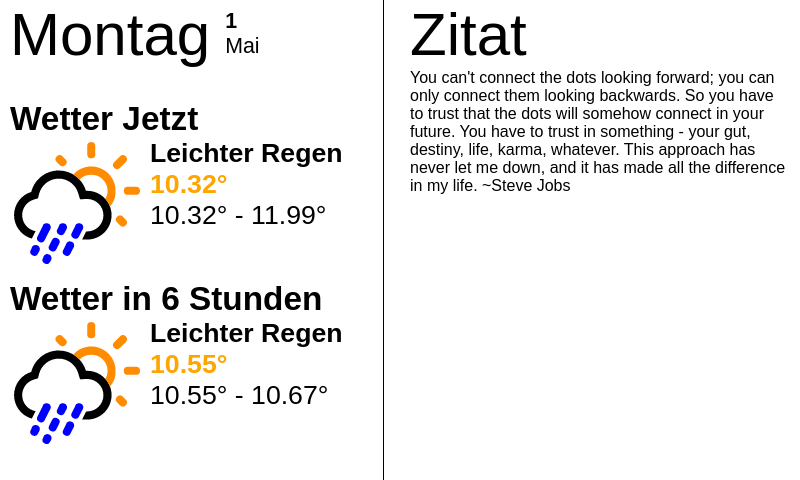
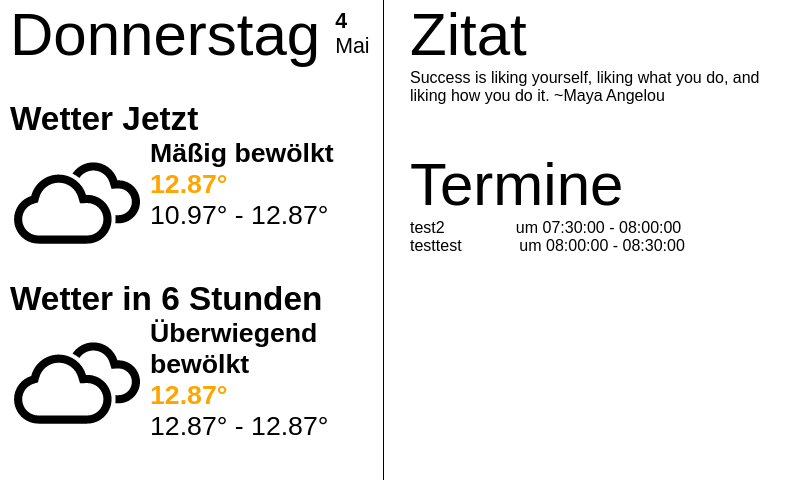
implemented test calendar widget

diff --git a/dashboard.html b/dashboard.html
@@ -7,10 +7,10 @@
     </head>
     <body>
         <div id="today-header">
-            <span id="today-date-weekday"></i>Montag</span>
+            <span id="today-date-weekday"></i>Donnerstag</span>
             <span id="today-date-daymonth">
               <div id="today-date-day">
-                1
+                4
               </div>
               Mai
             </span>
@@ -18,28 +18,32 @@
         <div id="weather_now">
           <span id="weather_title">Wetter Jetzt<br/></span>  
           <div id="weather_text">
-            <span id="weather-description">Leichter Regen<br/></span>
-            <span id="weather-temp">10.32°<br/></span>
-            <span id="weather-tempminmax">10.32° - 11.99°<br/></span>
+            <span id="weather-description">Mäßig bewölkt<br/></span>
+            <span id="weather-temp">12.87°<br/></span>
+            <span id="weather-tempminmax">10.97° - 12.87°<br/></span>
           </div>
-          <img id="today-icon" src=icons/10d.svg alt="10d"><br/>
+          <img id="today-icon" src=icons/03n.svg alt="03n"><br/>
         </div>
         <div id="weather_forecast">
           <span id="weather_title">Wetter in 6 Stunden<br/></span>  
           <div id="weather_text">
-            <span id="weather-description">Leichter Regen<br/></span>
-            <span id="weather-temp">10.55°<br/></span>
-            <span id="weather-tempminmax">10.55° - 10.67°<br/></span>
+            <span id="weather-description">Überwiegend<br/>bewölkt<br/></span>
+            <span id="weather-temp">12.87°<br/></span>
+            <span id="weather-tempminmax">12.87° - 12.87°<br/></span>
           </div>
-          <img id="today-icon" src=icons/10d.svg alt="10d"><br/>
+          <img id="today-icon" src=icons/03n.svg alt="03n"><br/>
         </div>
 
         <div class="vl"></div>
 
         <div id="quote">
           <span id="today-date-weekday"></i>Zitat<br/></span>
-          <span id="quote-text">You can't connect the dots looking forward; you can only connect them looking backwards. So you have to trust that the dots will somehow connect in your future. You have to trust in something - your gut, destiny, life, karma, whatever. This approach has never let me down, and it has made all the difference in my life. ~Steve Jobs
+          <span id="quote-text">Success is liking yourself, liking what you do, and liking how you do it. ~Maya Angelou
 <br/></span> 
+        </div>
+        <div id="calendar">
+          <span id="today-date-weekday"></i>Termine<br/></span>
+          <span id="quote-text">test2&nbsp;&nbsp;&nbsp;&nbsp;&nbsp;&nbsp;&nbsp;&nbsp;&nbsp;&nbsp;&nbsp;&nbsp;&nbsp;&nbsp;&nbsp; um  07:30:00 - 08:00:00<br/>testtest&nbsp;&nbsp;&nbsp;&nbsp;&nbsp;&nbsp;&nbsp;&nbsp;&nbsp;&nbsp;&nbsp;&nbsp; um  08:00:00 - 08:30:00<br/></span>
         </div>
     </body>
 </html>

diff --git a/dashboard_template.html b/dashboard_template.html
@@ -40,5 +40,9 @@
           <span id="today-date-weekday"></i>Zitat<br/></span>
           <span id="quote-text">QUOTE<br/></span> 
         </div>
+        <div id="calendar">
+          <span id="today-date-weekday"></i>Termine<br/></span>
+          <span id="quote-text">CALENDAR_EVENTS<br/></span>
+        </div>
     </body>
 </html>

diff --git a/styles.css b/styles.css
@@ -74,4 +74,9 @@
         margin-left: -1px;
         top: 0;
         }
-
+        #calendar {
+                position: absolute;
+                top: 150px;
+                left: 410px;
+                width: 380px;
+        }

diff --git a/get_calendar.py b/get_calendar.py
@@ -1,0 +1,50 @@
+import datetime
+from O365 import Account, MSGraphProtocol
+import re
+#import config.py with api keys
+import config
+
+calendar_events = ""
+
+
+credentials = (config.CLIENT_ID, config.SECRET_ID)
+
+protocol = MSGraphProtocol() 
+scopes = ['Calendars.Read.Shared']
+account = Account(credentials, protocol=protocol)
+
+# Set the start and end times to include events for today
+today = datetime.datetime.utcnow().date()
+start = datetime.datetime.combine(today, datetime.time.min).isoformat() + 'Z'
+end = datetime.datetime.combine(today, datetime.time.max).isoformat() + 'Z'
+
+if account.authenticate(scopes=scopes):
+   print('Authenticated!')
+
+# Get Calendar Events for Today 
+schedule = account.schedule()
+calendar = schedule.get_default_calendar()
+q = calendar.new_query('start').greater_equal(start)
+q.chain('and').on_attribute('end').less_equal(end)
+events = calendar.get_events(query=q, include_recurring=True) 
+
+for event in events:
+    event = str(event)
+    # Extract subject
+    subject_match = re.search(r'Subject: (.+?) \(on:', event)
+    subject = subject_match.group(1) if subject_match else None
+
+    # Extract start time
+    start_time_match = re.search(r'from:(.+?) ', event)
+    start_time = start_time_match.group(1) if start_time_match else None
+
+    # Extract end time
+    end_time_match = re.search(r'to: (.+?)\)', event)
+    end_time = end_time_match.group(1) if end_time_match else None
+    space_amount = 20 - len(subject)
+    subject += space_amount * "&nbsp;"
+    event_details = subject + ' um ' + start_time + ' - ' + end_time
+    calendar_events += event_details + "\n"
+
+print(calendar_events)
+

diff --git a/generate_html.py b/generate_html.py
@@ -7,8 +7,11 @@ import random
 import datetime
 import requests
 import locale
-
+#import config.py with api keys
 import config
+
+#test calendar
+CALENDAR_EVENTS = "test2&nbsp;&nbsp;&nbsp;&nbsp;&nbsp;&nbsp;&nbsp;&nbsp;&nbsp;&nbsp;&nbsp;&nbsp;&nbsp;&nbsp;&nbsp; um  07:30:00 - 08:00:00\ntesttest&nbsp;&nbsp;&nbsp;&nbsp;&nbsp;&nbsp;&nbsp;&nbsp;&nbsp;&nbsp;&nbsp;&nbsp; um  08:00:00 - 08:30:00"
 
 #Required variables
 datetime = datetime.date.today()
@@ -32,6 +35,11 @@ random.seed(seed)
 #Api call
 json_data =  json.loads(get_weather(config.Location))
 print(json_data)
+#if json_data["weather"][0]["description"] and/or json_data["weather"][2]["description"] is greater than lenght 15, replace space with <br/>
+if len(json_data["list"][0]["weather"][0]["description"]) > 15:
+    json_data["list"][0]["weather"][0]["description"] = json_data["list"][0]["weather"][0]["description"].replace(" ", "<br/>")
+if len(json_data["list"][2]["weather"][0]["description"]) > 15:
+    json_data["list"][2]["weather"][0]["description"] = json_data["list"][2]["weather"][0]["description"].replace(" ", "<br/>")
 json_data_now = json_data["list"][0]
 json_data_forecast = json_data["list"][2]
 
@@ -58,6 +66,8 @@ with open('/home/pi/pi-dashboard/dashboard_template.html', 'r') as file :
     filedata = re.sub('FORECAST_ICON', json_data_forecast["weather"][0]["icon"], filedata)
     
     filedata = filedata.replace('QUOTE', random.choice(list(open('/home/pi/pi-dashboard/quotes.txt'))))
+    filedata = re.sub('CALENDAR_EVENTS', CALENDAR_EVENTS.replace('\n', "<br/>"), filedata)
 
 with open('/home/pi/pi-dashboard/dashboard.html', 'w') as file:
     file.write(filedata)
+    

diff --git a/test.py b/test.py
@@ -1,0 +1,4 @@
+
+CALENDAR_EVENTS = "test2&nbsp;&nbsp;&nbsp;&nbsp;&nbsp;&nbsp;&nbsp;&nbsp;&nbsp;&nbsp;&nbsp;&nbsp;&nbsp;&nbsp;&nbsp; um  07:30:00 - 08:00:00\ntesttest&nbsp;&nbsp;&nbsp;&nbsp;&nbsp;&nbsp;&nbsp;&nbsp;&nbsp;&nbsp;&nbsp;&nbsp; um  08:00:00 - 08:30:00"
+
+print(CALENDAR_EVENTS)
